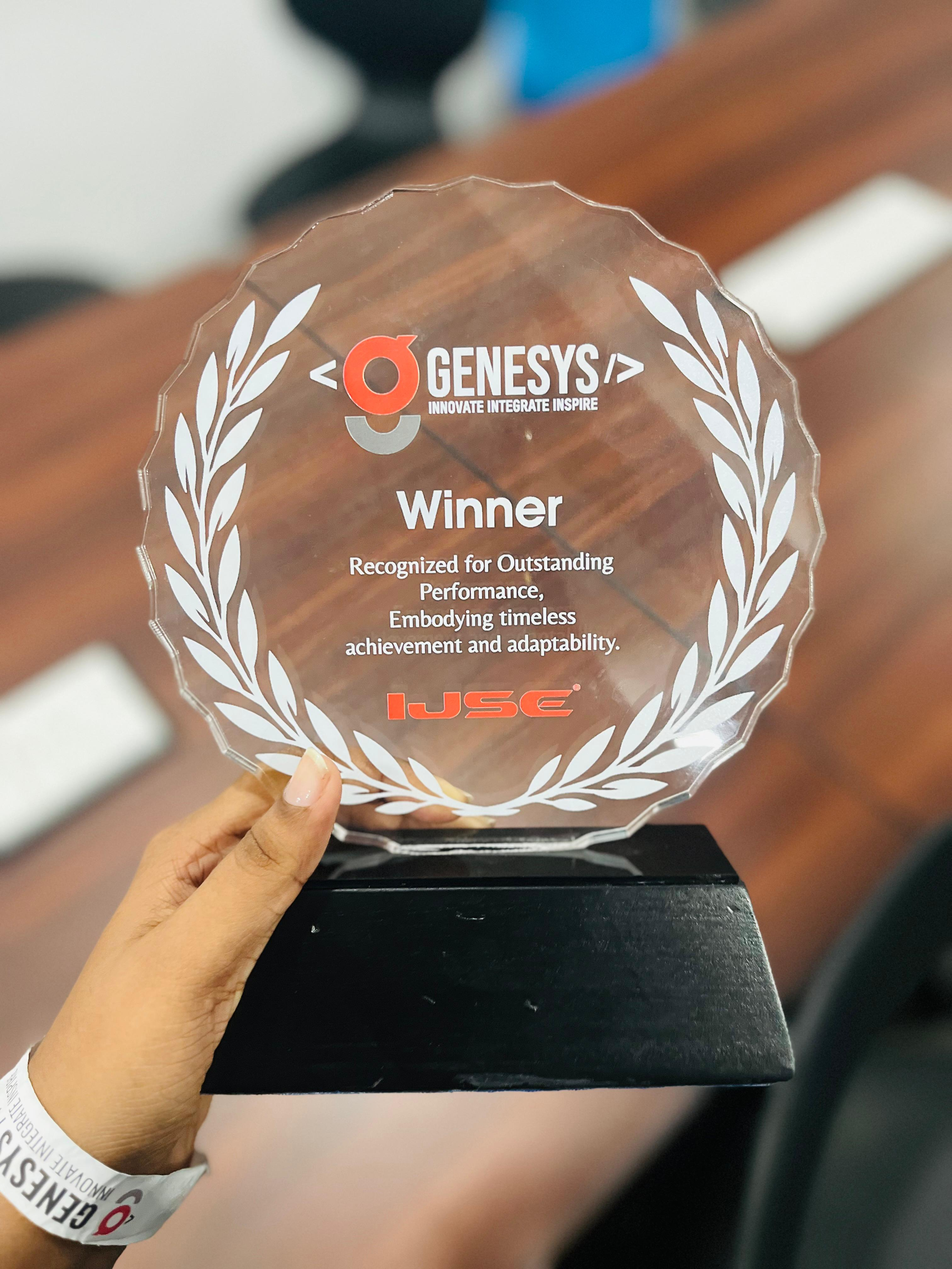
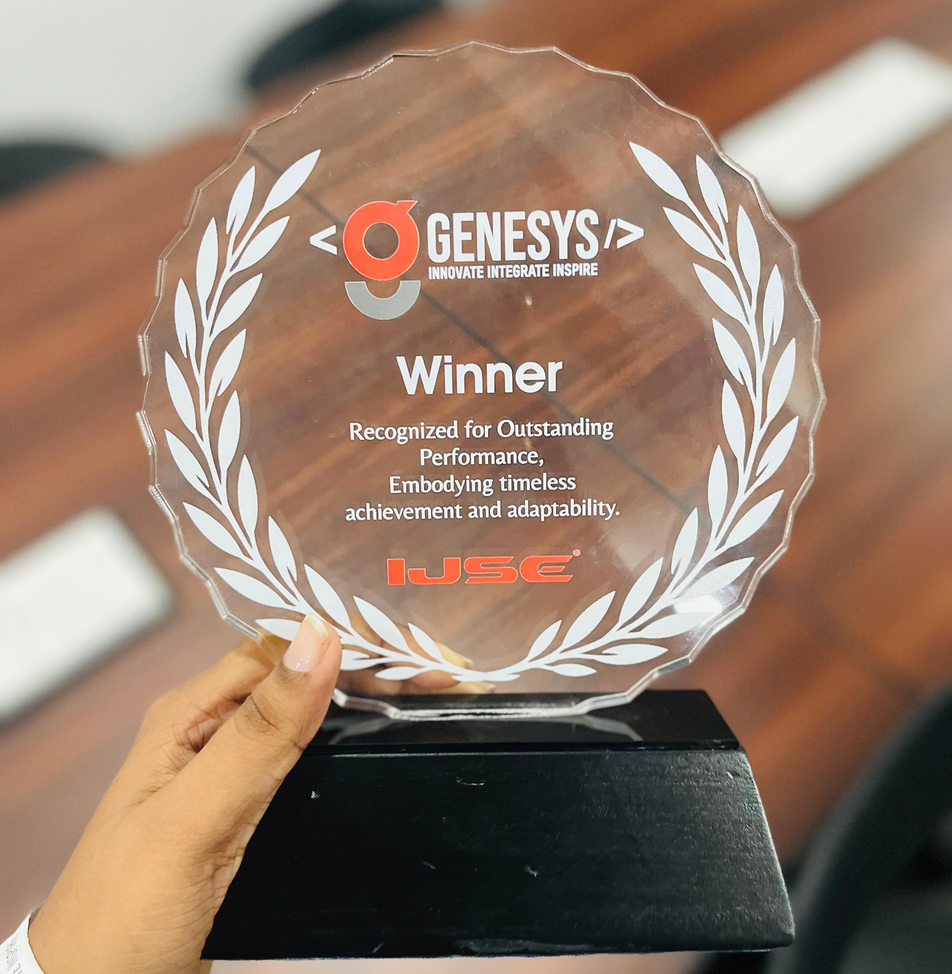
enhance image dimensions and styling for better presentation in achievements section

diff --git a/index.html b/index.html
@@ -475,7 +475,7 @@
                 <p>Team 'Codehub' celebrating our victory in the GENESYS24 Hackathon.</p>
             </div>
             <div>
-                <img src="assets/awardCe.jpg" alt="awardCe" width="300" height="150">
+                <img src="assets/awardCe.jpg" alt="awardCe" width="300" height="200">
                 <p>Winning the GENESYS24 Hackathon</p>
             </div>
         </section>

diff --git a/styles/style.css b/styles/style.css
@@ -780,7 +780,7 @@ h3{
     align-items: center;
     justify-content: center;
     gap: 10px;
-    display: flex;
+    object-fit: cover;
 }
 /*Gallery responsive for laptop*/
 @media all and (max-width: 1024px){
